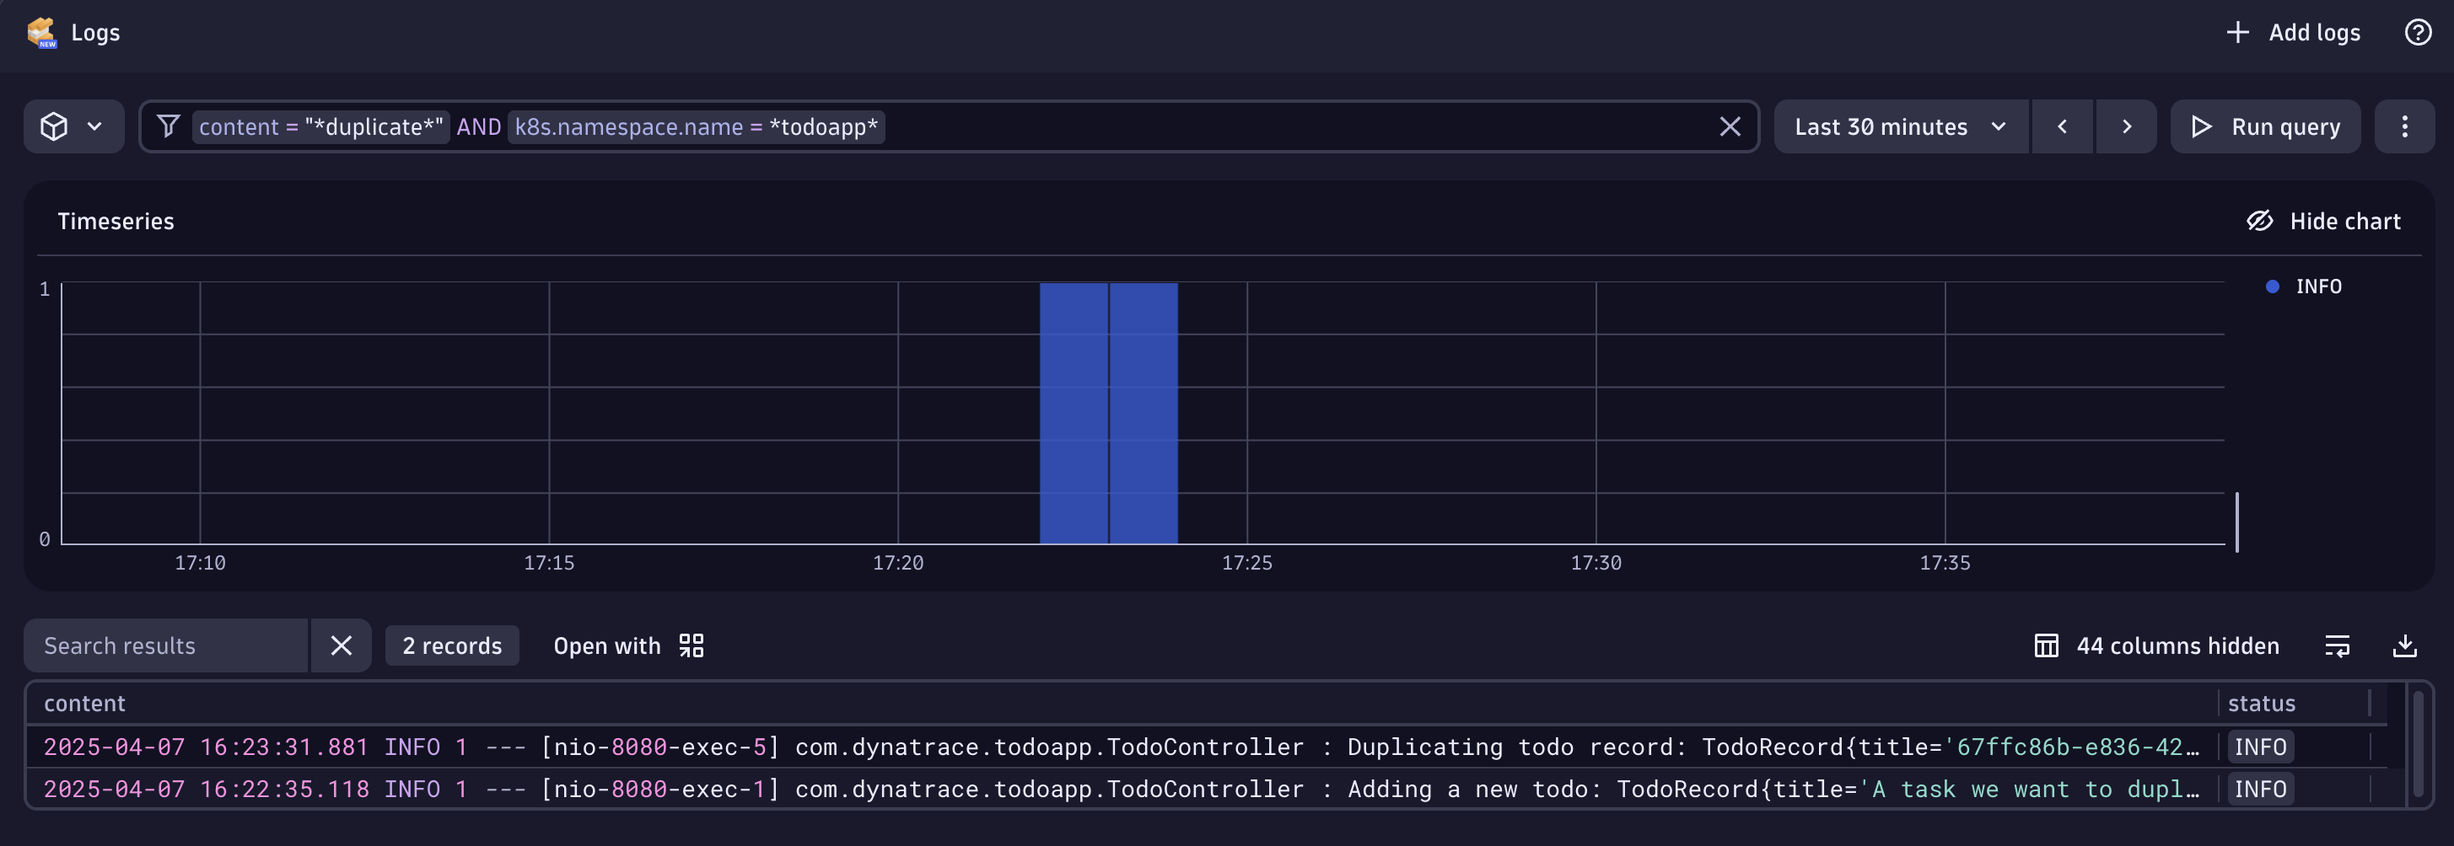
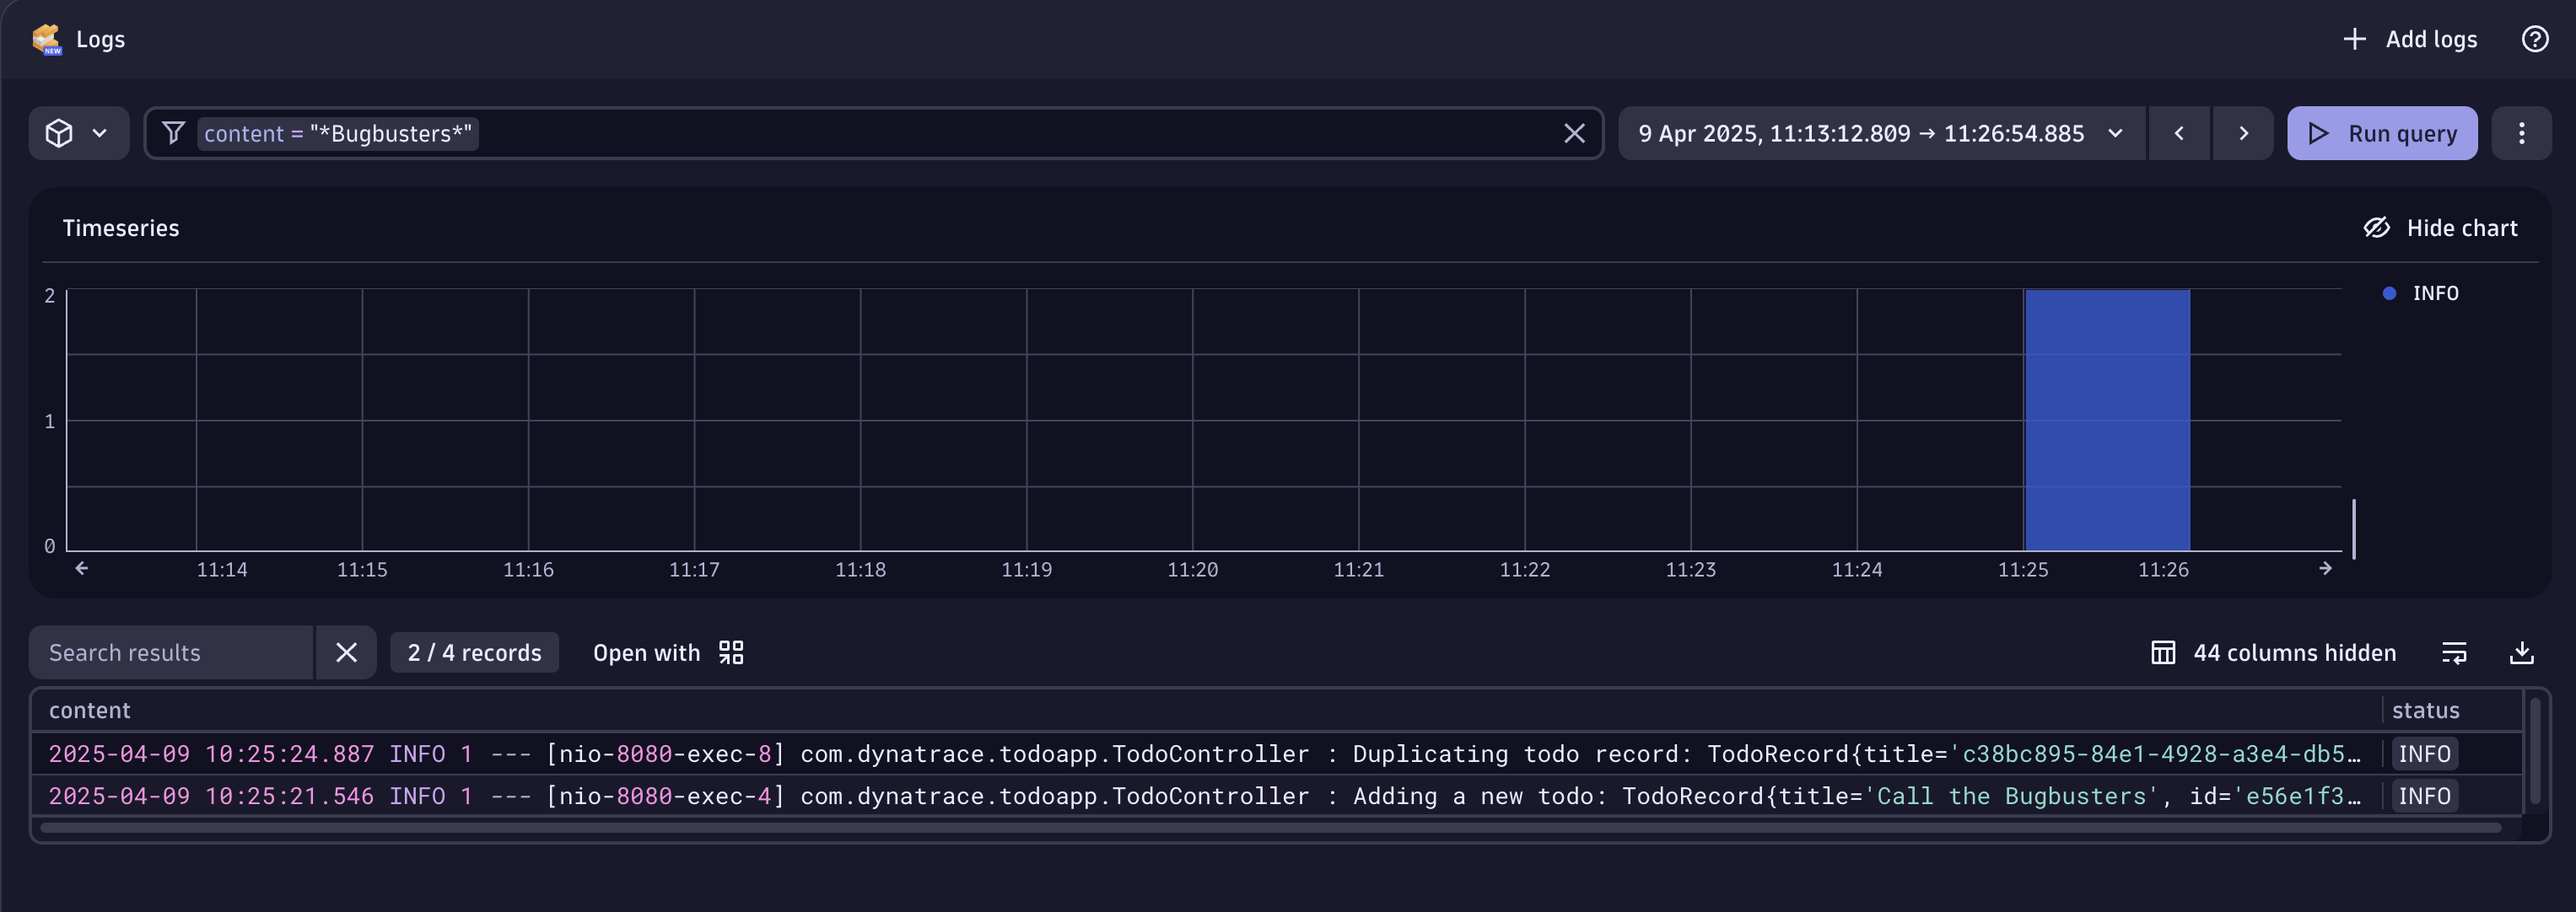
update duplicate task

diff --git a/docs/3-bug-hunt-via-logs.md b/docs/3-bug-hunt-via-logs.md
@@ -4,14 +4,19 @@
 Now let's try a different approach, we have seen how easy it is to find the traces via the Distributed Tracing App. Let's find the trace and it's method and codespace via the Logs App. The Dynatrace Plattform is context aware, it knows which traces write which logs, from which pod they are coming from and even which user generated the transaction. 
 
 - Open the Logs App. Again let's be a pro and type CTRL + K and then Logs, the Logs App should appear in the super search.
-- In the filter type the content or part of the content of the Task, in my case I wrote `A task we want to duplicate`, so I'm searching for `content=*duplicate*`.
-- Since I'm monitoring multiple Kubernetes Clusters, I'm adding an extra filter for the `k8s.namespace.name = todoapp`. You can verify this by clicking on a log entry, and on the right hand side, the topology of the log entry will open, you'll notice is the same pod.
+- In the filter type the content or part of the content of the Task, in my case I wrote `Call the Bugbusters`, so I'm searching for `content=*bugbusters*`. I'm assuming the developers is logging the content I'm writing in the app since "we don't know the code" and in our quests we are searching via logs. Let's see if we are lucky.
 
 ![Logs app](../img/logs_app.png)
-Wow, that was fast, we see two log entries with that match and are coming from the same pod. 
+Wow, that was fast, we see two log entries with that match and are coming from the same pod. One was adding the task, the other duplicating it. 
 
 - We can either right click on the Log line and **open record with** and you select the **Distributed Tracing** app or on the right pane, above the Topology of the Log entry, there is a button for your convenience that says **Open trace**
+![Logs app](../img/logs_app2.png)
+
 - Either way will open the Distributed Tracing app
+
+From the content if you look carefully, you can see that the duplicate has the ID and title swapped.
+![Logs app](../img/logs_app3.png)
+
 
 
 ## Hunting road - Distributed Tracing App 
@@ -39,6 +44,8 @@ Wow, that was fast, we see two log entries with that match and are coming from t
 Did you notice how the Map has in the items [0] and [1] the title and UUIDs are swapped?
 
 - This is also noticeable in the sourcecode, lines 102 and 103 are being swapped. 
+
+![Duplicate](../img/duplicate_record2.png)
 
 <div class="grid cards" markdown>
 - [Click here to continue :octicons-arrow-right-24:](cleanup.md)
